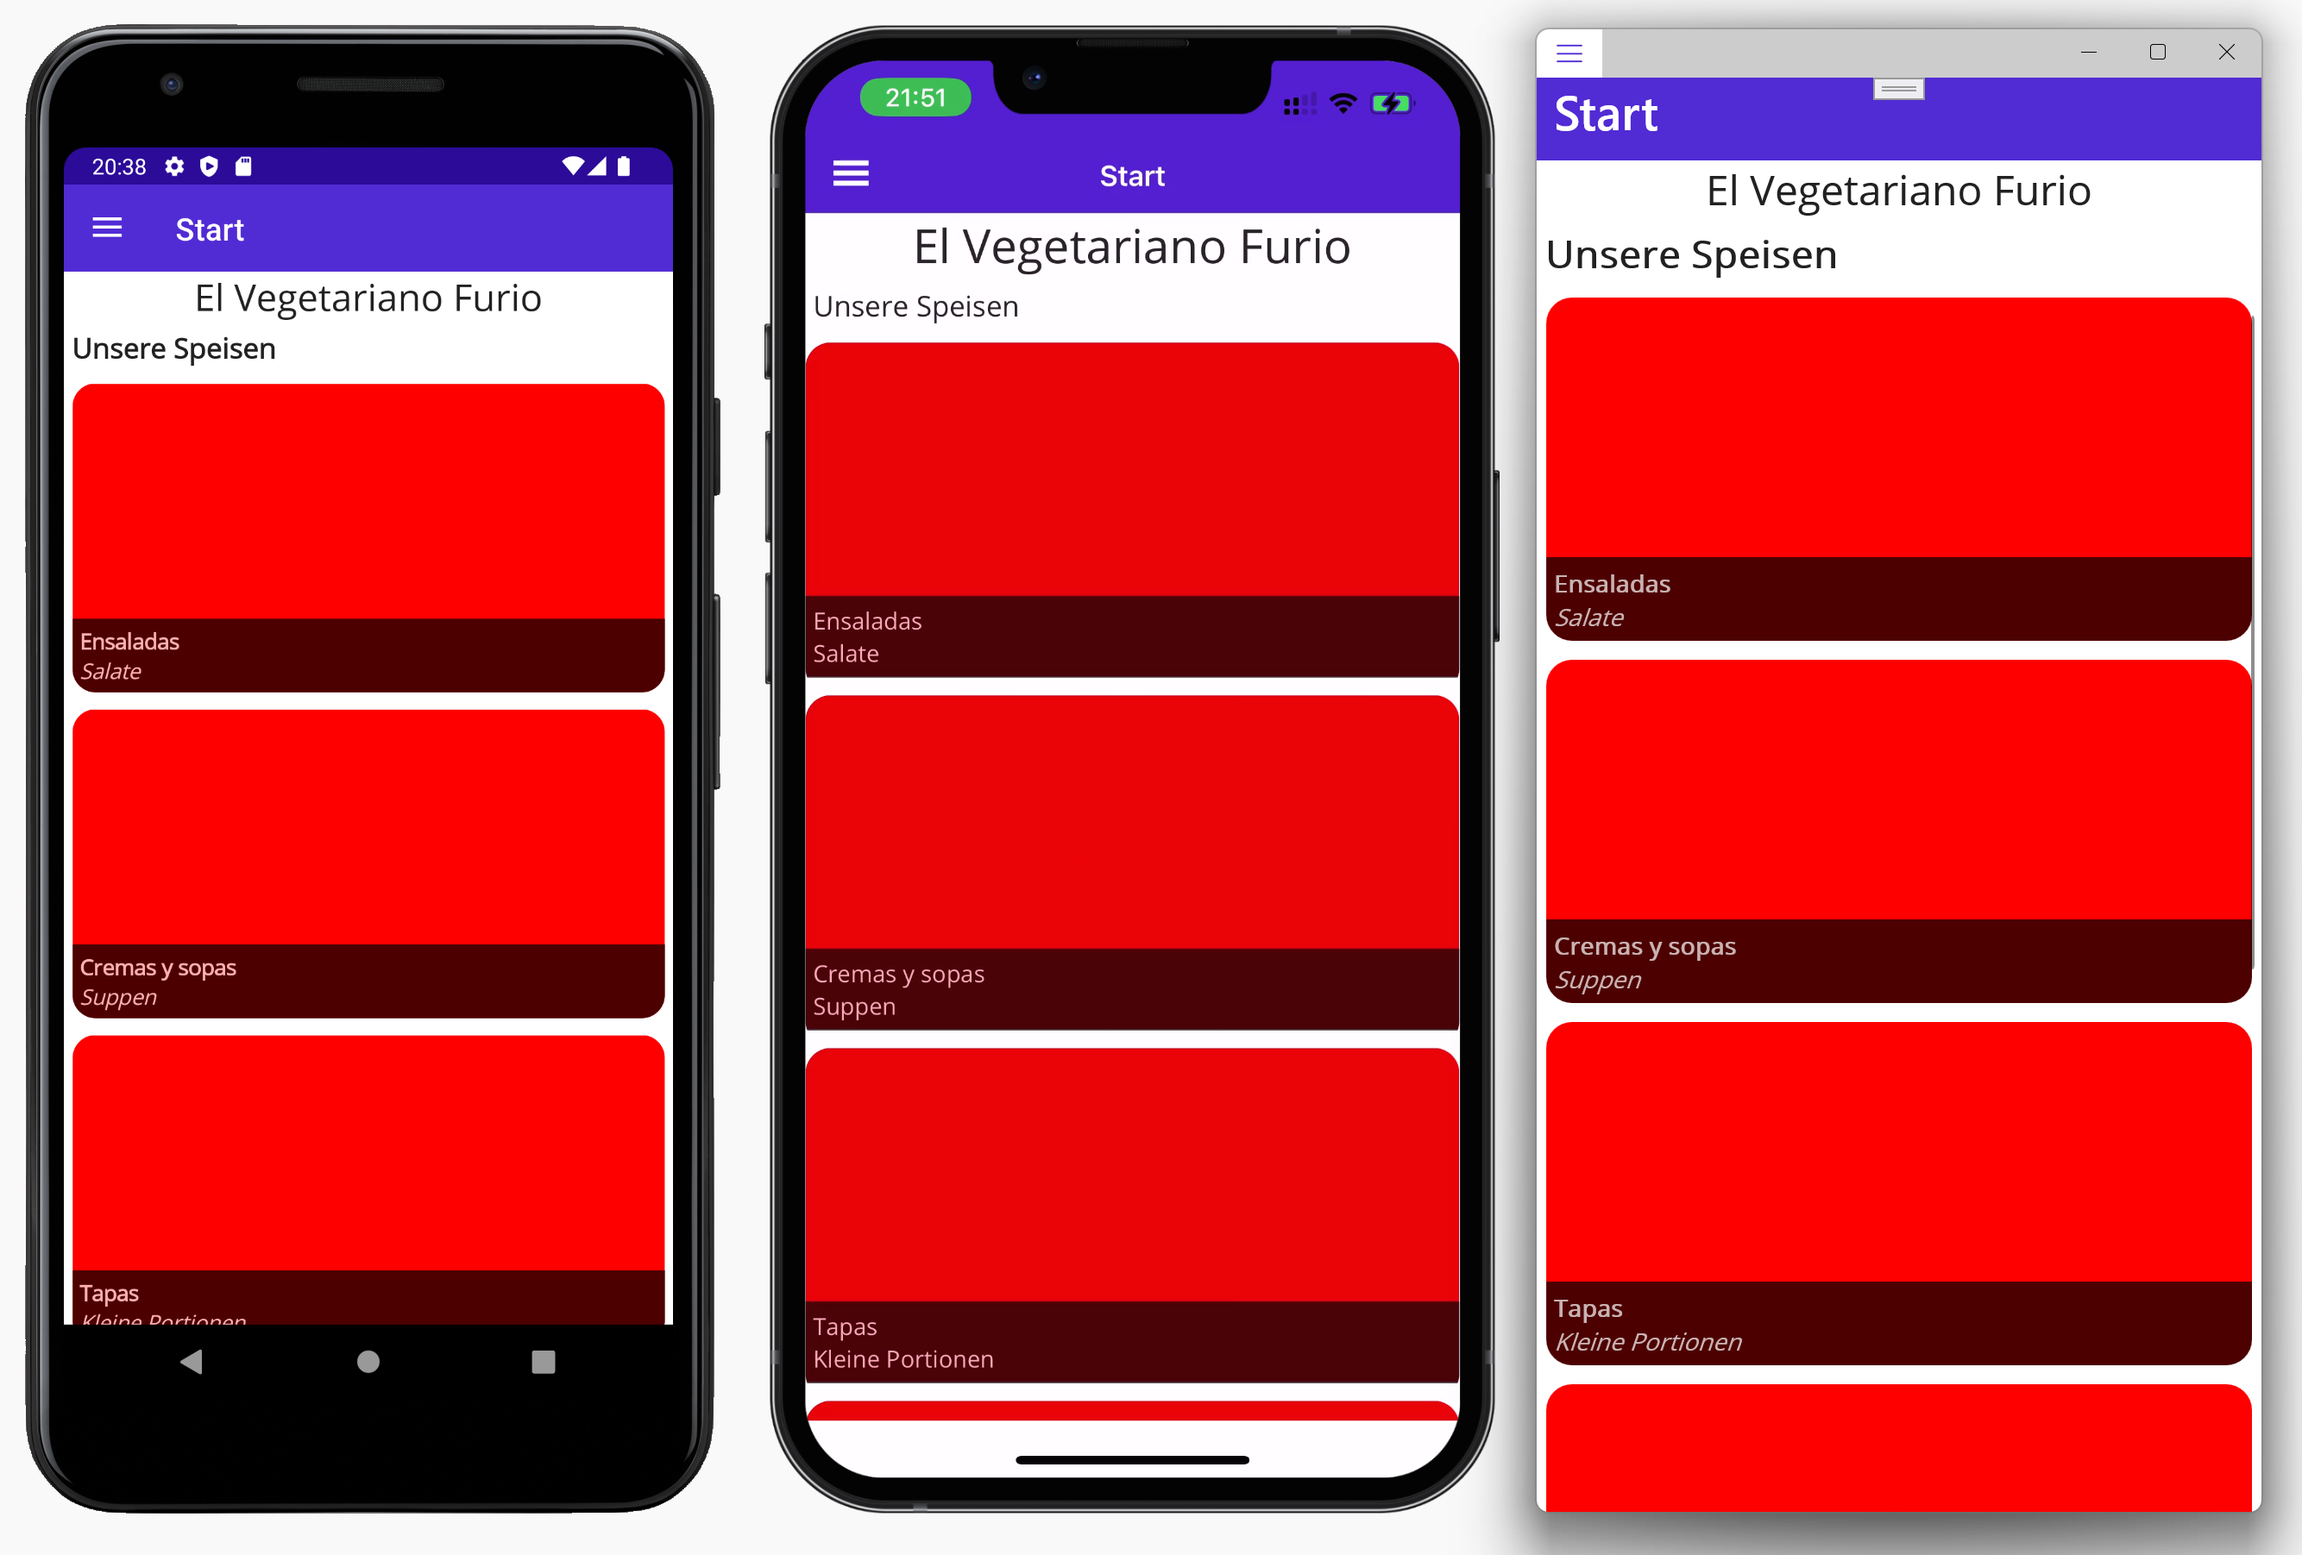
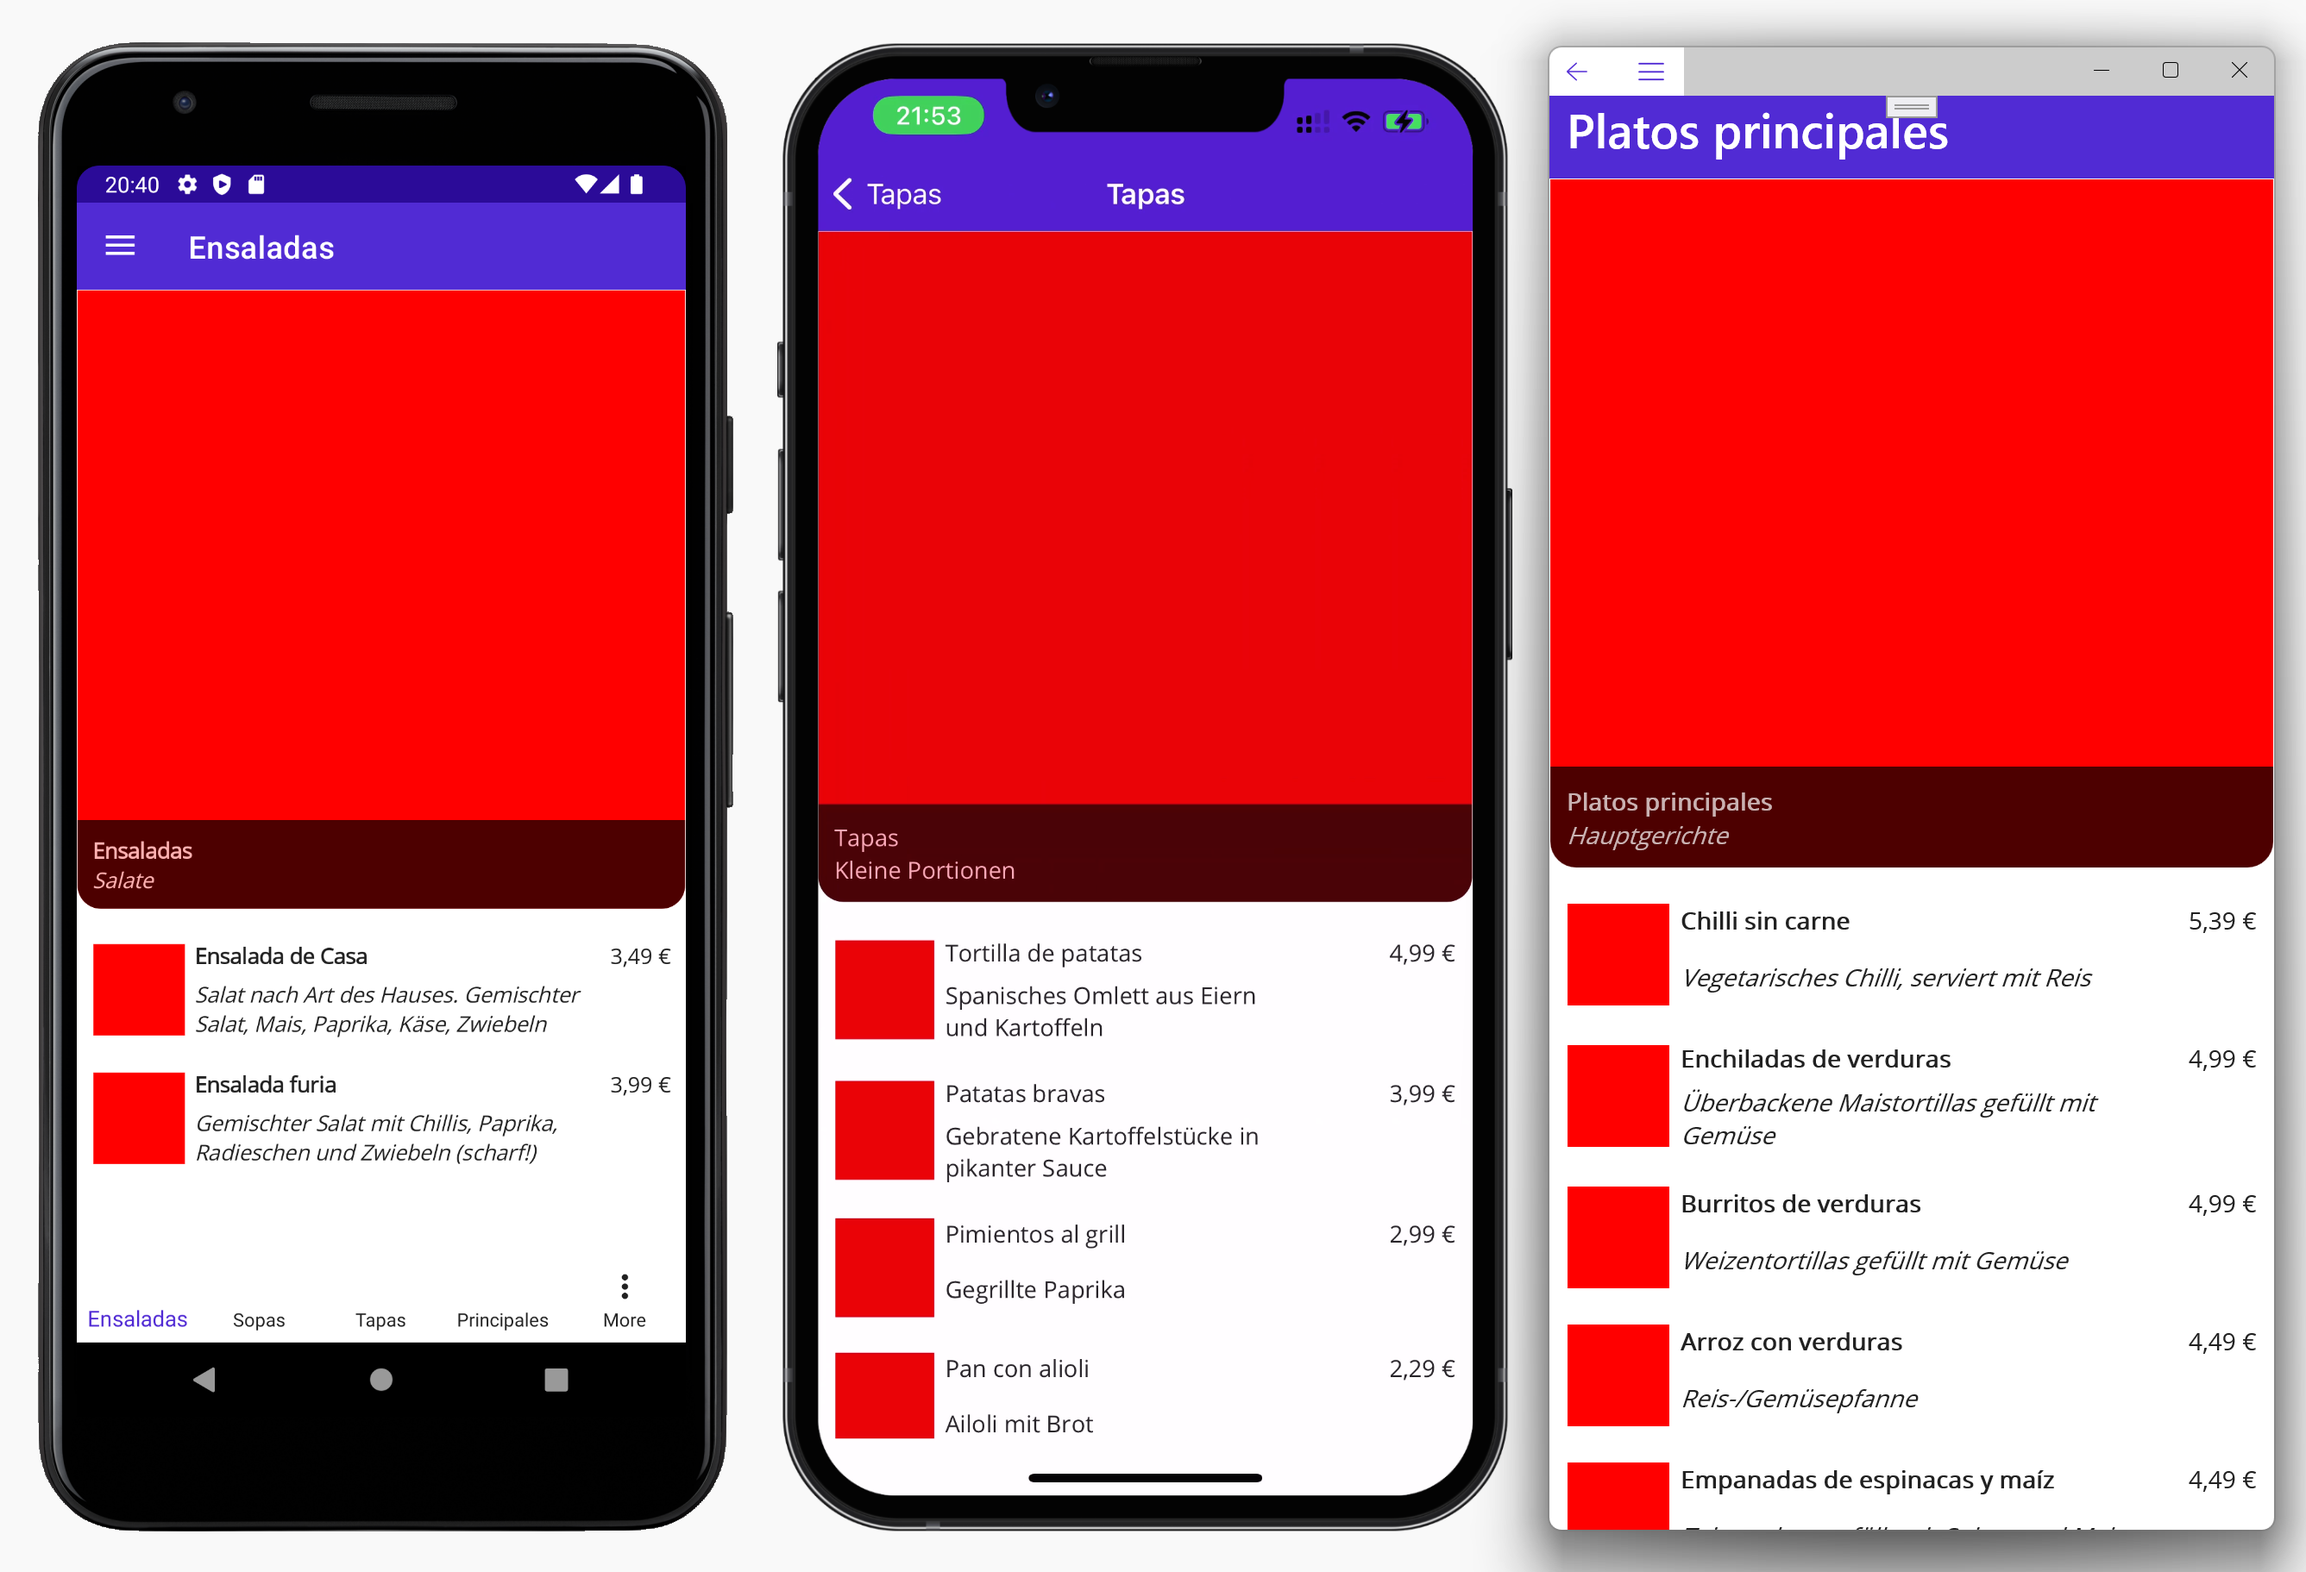
Übung 6 hinzugefügt

diff --git a/lab.md b/lab.md
@@ -1,12 +1,11 @@
-# Übung 5
+# Übung 6: Navigation
 
-- Legen Sie in Ihrem Projekt `ElVegetarianoFurio` einen Ordner `Data` und einen Ordner `Menu` im Wurzelverzeichnis an.
-- Kopieren Sie aus den allgemeinen Beispieldateien zur Schulung die Klassen `Dish.cs` und `Category.cs` aus  dem Ordner `Data` der Beispieldateien in den Ordner `Menu` Ihres Projekts
-- Kopieren Sie die Dateien `IDataService.cs` und `DummyDataService.cs` in den Ordner `Data` Ihres Projekts
-- Entfernen Sie den Inhalt der ContentPage aus der Datei `MainPage.xaml`
-- Entfernen Sie aus der Datei `MainPage.xaml.cs` das Feld `count`, sowie die Methode `OnCounterClicked`
-- Legen Sie eine Klasse `MainViewModel` im Wurzelverzeichnis der Anwendung an. Fügen Sie Code zum Laden der Daten hinzu
-- Bearbeiten Sie die Datei `MainPage.xml` und fügen Sie einen CollectionView mit dem Layout des Screenshots hinzu
-- Registrieren Sie sämtliche Abhängigkeiten in der Datei `MauiProgram.cs`. Nutzen Sie dazu die Erweiterungsmethoden aus dem .NET MAUI Community Toolkit.
+- Legen Sie in Ihrem Projekt `ElVegetarianoFurio` eine neue Seite `CategoryPage.xaml` im Ordner Menu an.
+- Legen Sie ein ViewModel `CategoryViewModel` mit den Eigenschaften  `Category` und `Dishes` an. Dishes ist eine ObservableCollection!
+- Legen Sie eine Methode zum Laden der Liste der Dishes über den DataService anhand der vorgegebenen Category an
+- Verbinden Sie View und ViewModel. 
+- Registrieren Sie View und ViewModel in der DependencyInjection und registrieren Sie eine Route für die CategoryPage
+- Erstellen Sie das Layout für die Seite `CategoryPage.xaml` anlaog zum Screenshot
+
 
 ![Übung](lab.png)
